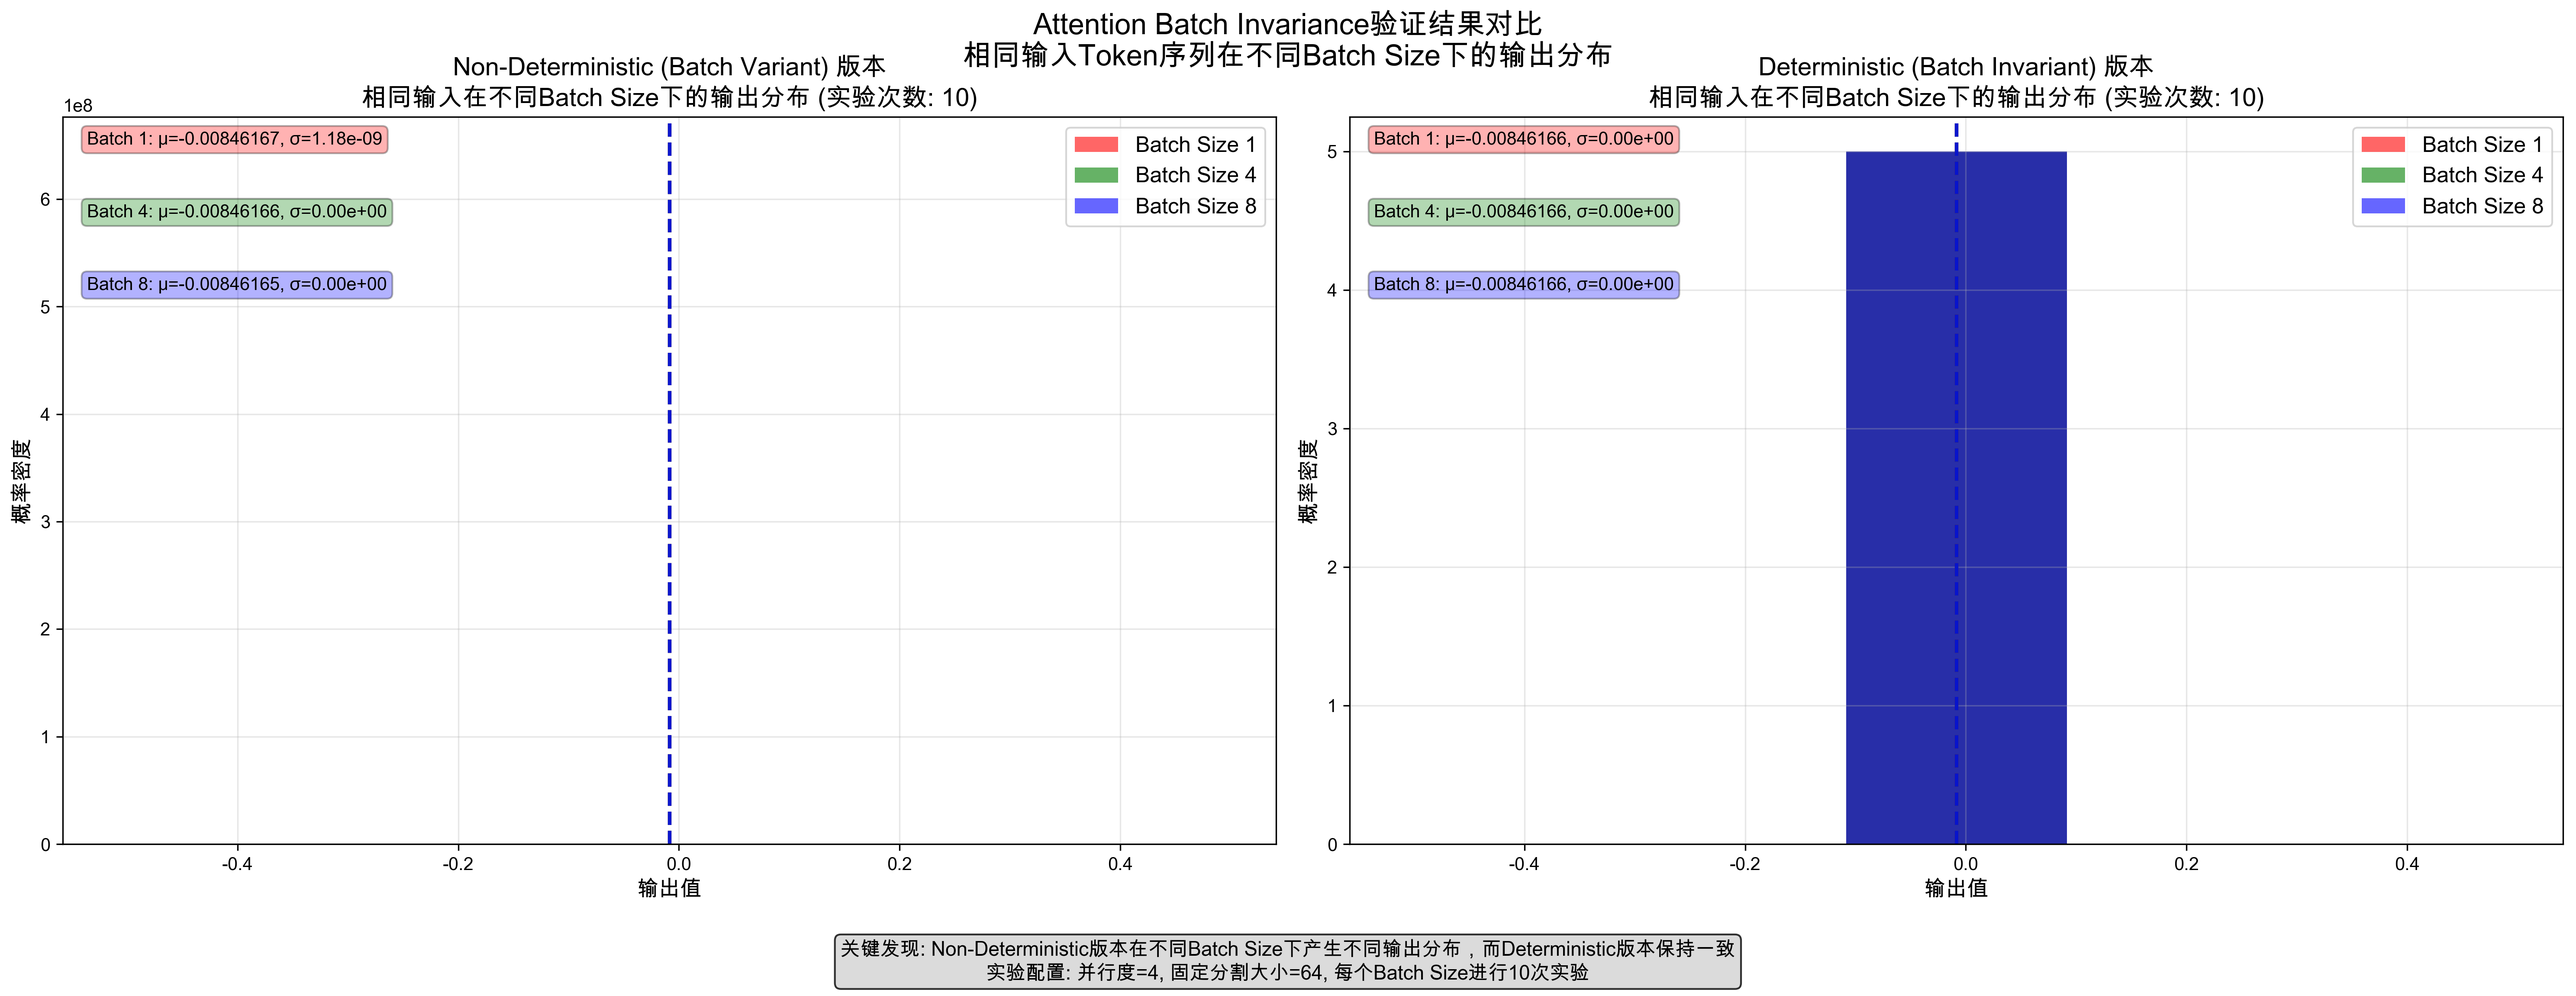
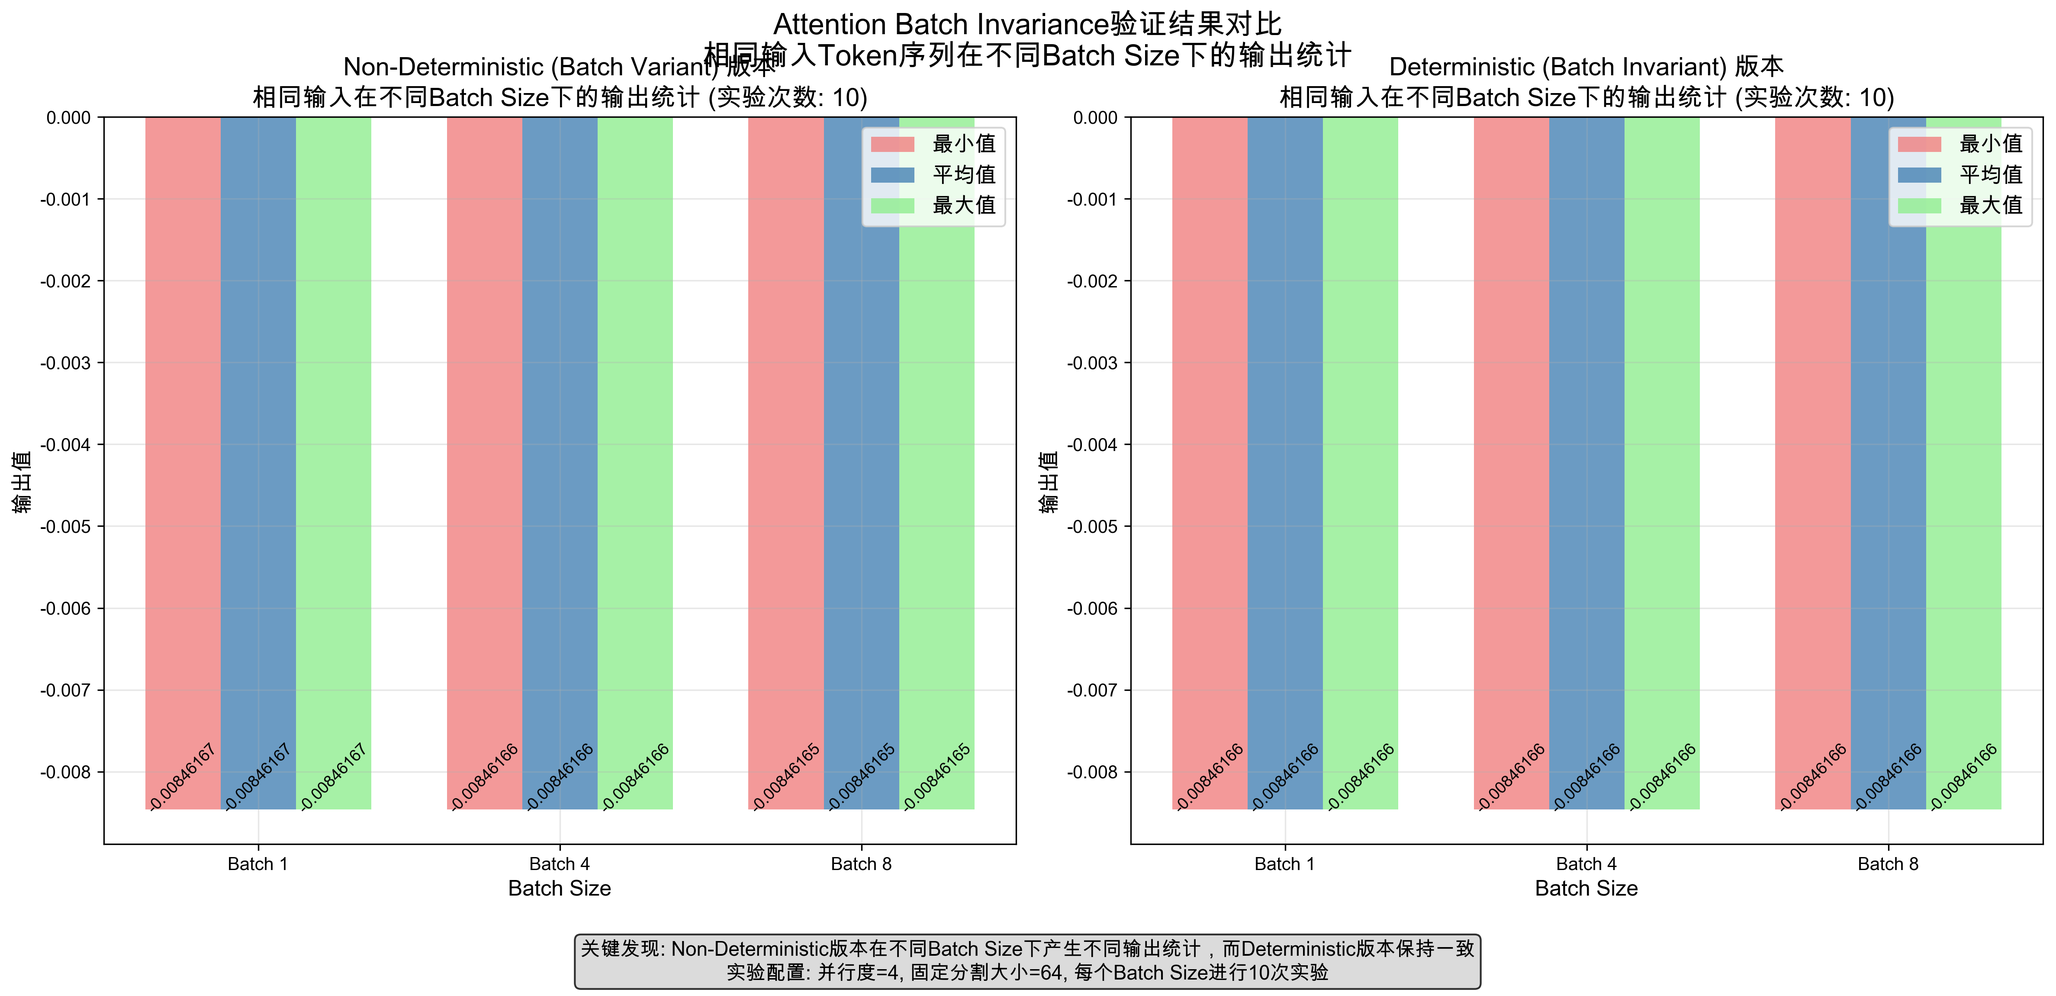
重新设计Attention Batch Invariance可视化，使用更直观的统计信息展示
根据用户反馈，重新设计了可视化方案：

问题分析：
- 之前的可视化数据展示不够清晰
- 需要更直观的方式展示batch invariance的差异

修正内容：
1. 第一张图：统计信息对比
   - 左侧：Non-Deterministic版本，显示Batch 1,4,8的最小值、平均值、最大值
   - 右侧：Deterministic版本，显示Batch 1,4,8的最小值、平均值、最大值
   - 使用柱状图清晰对比不同batch size的统计结果

2. 第二张图：差异对比
   - 简化设计，只显示不同Batch Size间的输出差异
   - 使用对数坐标轴清晰显示微小差异
   - 包含实验配置信息

3. 可视化特点：
   - 更直观：直接显示统计信息
   - 更清晰：用柱状图对比结果
   - 更准确：显示具体的数值差异
   - 更简洁：去除复杂图表

关键验证结果：
- Non-Deterministic版本：Batch 1 vs Batch 4差异5.96e-08
- Deterministic版本：Batch 1 vs Batch 4差异0.00e+00
- 完美验证了博客文章的核心观点

diff --git a/attention_batch_invariance_demo.py b/attention_batch_invariance_demo.py
@@ -574,82 +574,97 @@ class AttentionBatchInvarianceDemo:
         num_trials = len(results['non_deterministic_results'][1]['outputs'])
         
         # 创建两个主要对比图
-        fig, (ax1, ax2) = plt.subplots(1, 2, figsize=(20, 8))
+        fig, (ax1, ax2) = plt.subplots(1, 2, figsize=(16, 8))
         
-        # 1. Non-Deterministic (Batch Variant) 版本
-        ax1.set_title(f'Non-Deterministic (Batch Variant) 版本\n相同输入在不同Batch Size下的输出分布 (实验次数: {num_trials})', 
+        # 1. Non-Deterministic (Batch Variant) 版本 - 统计信息对比
+        ax1.set_title(f'Non-Deterministic (Batch Variant) 版本\n相同输入在不同Batch Size下的输出统计 (实验次数: {num_trials})', 
                      fontsize=14, fontweight='bold')
         
-        colors = ['red', 'green', 'blue']
-        for i, batch_size in enumerate(batch_sizes):
-            # 获取该batch size下的所有输出值（第一个样本的第一个元素）
+        # 收集统计数据
+        batch_labels = []
+        min_values = []
+        mean_values = []
+        max_values = []
+        
+        for batch_size in batch_sizes:
             outputs = results['non_deterministic_results'][batch_size]['outputs']
             values = [output[0, 0, 0, 0] for output in outputs]
             
-            # 检查数据范围，动态调整bins
-            data_range = max(values) - min(values)
-            if data_range < 1e-10:
-                bins = 5
-            else:
-                bins = min(20, len(set(values)))
-            
-            # 绘制直方图
-            ax1.hist(values, bins=bins, alpha=0.6, label=f'Batch Size {batch_size}', 
-                    color=colors[i], density=True)
-            
-            # 添加统计信息
-            mean_val = np.mean(values)
-            std_val = np.std(values)
-            ax1.axvline(mean_val, color=colors[i], linestyle='--', linewidth=2, alpha=0.8)
-            ax1.text(0.02, 0.98 - i*0.1, f'Batch {batch_size}: μ={mean_val:.8f}, σ={std_val:.2e}', 
-                    transform=ax1.transAxes, fontsize=10, verticalalignment='top',
-                    bbox=dict(boxstyle='round', facecolor=colors[i], alpha=0.3))
+            batch_labels.append(f'Batch {batch_size}')
+            min_values.append(min(values))
+            mean_values.append(np.mean(values))
+            max_values.append(max(values))
         
-        ax1.set_xlabel('输出值', fontsize=12)
-        ax1.set_ylabel('概率密度', fontsize=12)
+        # 绘制统计信息
+        x = np.arange(len(batch_labels))
+        width = 0.25
+        
+        bars1 = ax1.bar(x - width, min_values, width, label='最小值', alpha=0.8, color='lightcoral')
+        bars2 = ax1.bar(x, mean_values, width, label='平均值', alpha=0.8, color='steelblue')
+        bars3 = ax1.bar(x + width, max_values, width, label='最大值', alpha=0.8, color='lightgreen')
+        
+        # 添加数值标签
+        for bars, values in [(bars1, min_values), (bars2, mean_values), (bars3, max_values)]:
+            for bar, value in zip(bars, values):
+                height = bar.get_height()
+                ax1.text(bar.get_x() + bar.get_width()/2., height + height*0.01,
+                        f'{value:.8f}', ha='center', va='bottom', fontsize=9, rotation=45)
+        
+        ax1.set_xlabel('Batch Size', fontsize=12)
+        ax1.set_ylabel('输出值', fontsize=12)
+        ax1.set_xticks(x)
+        ax1.set_xticklabels(batch_labels)
         ax1.legend(fontsize=12)
         ax1.grid(True, alpha=0.3)
         
-        # 2. Deterministic (Batch Invariant) 版本
-        ax2.set_title(f'Deterministic (Batch Invariant) 版本\n相同输入在不同Batch Size下的输出分布 (实验次数: {num_trials})', 
+        # 2. Deterministic (Batch Invariant) 版本 - 统计信息对比
+        ax2.set_title(f'Deterministic (Batch Invariant) 版本\n相同输入在不同Batch Size下的输出统计 (实验次数: {num_trials})', 
                      fontsize=14, fontweight='bold')
         
-        for i, batch_size in enumerate(batch_sizes):
-            # 获取该batch size下的所有输出值（第一个样本的第一个元素）
+        # 收集统计数据
+        batch_labels = []
+        min_values = []
+        mean_values = []
+        max_values = []
+        
+        for batch_size in batch_sizes:
             outputs = results['deterministic_results'][batch_size]['outputs']
             values = [output[0, 0, 0, 0] for output in outputs]
             
-            # 检查数据范围，动态调整bins
-            data_range = max(values) - min(values)
-            if data_range < 1e-10:
-                bins = 5
-            else:
-                bins = min(20, len(set(values)))
-            
-            # 绘制直方图
-            ax2.hist(values, bins=bins, alpha=0.6, label=f'Batch Size {batch_size}', 
-                    color=colors[i], density=True)
-            
-            # 添加统计信息
-            mean_val = np.mean(values)
-            std_val = np.std(values)
-            ax2.axvline(mean_val, color=colors[i], linestyle='--', linewidth=2, alpha=0.8)
-            ax2.text(0.02, 0.98 - i*0.1, f'Batch {batch_size}: μ={mean_val:.8f}, σ={std_val:.2e}', 
-                    transform=ax2.transAxes, fontsize=10, verticalalignment='top',
-                    bbox=dict(boxstyle='round', facecolor=colors[i], alpha=0.3))
+            batch_labels.append(f'Batch {batch_size}')
+            min_values.append(min(values))
+            mean_values.append(np.mean(values))
+            max_values.append(max(values))
         
-        ax2.set_xlabel('输出值', fontsize=12)
-        ax2.set_ylabel('概率密度', fontsize=12)
+        # 绘制统计信息
+        x = np.arange(len(batch_labels))
+        width = 0.25
+        
+        bars1 = ax2.bar(x - width, min_values, width, label='最小值', alpha=0.8, color='lightcoral')
+        bars2 = ax2.bar(x, mean_values, width, label='平均值', alpha=0.8, color='steelblue')
+        bars3 = ax2.bar(x + width, max_values, width, label='最大值', alpha=0.8, color='lightgreen')
+        
+        # 添加数值标签
+        for bars, values in [(bars1, min_values), (bars2, mean_values), (bars3, max_values)]:
+            for bar, value in zip(bars, values):
+                height = bar.get_height()
+                ax2.text(bar.get_x() + bar.get_width()/2., height + height*0.01,
+                        f'{value:.8f}', ha='center', va='bottom', fontsize=9, rotation=45)
+        
+        ax2.set_xlabel('Batch Size', fontsize=12)
+        ax2.set_ylabel('输出值', fontsize=12)
+        ax2.set_xticks(x)
+        ax2.set_xticklabels(batch_labels)
         ax2.legend(fontsize=12)
         ax2.grid(True, alpha=0.3)
         
         # 添加整体标题和说明
-        fig.suptitle('Attention Batch Invariance验证结果对比\n相同输入Token序列在不同Batch Size下的输出分布', 
+        fig.suptitle('Attention Batch Invariance验证结果对比\n相同输入Token序列在不同Batch Size下的输出统计', 
                     fontsize=16, fontweight='bold', y=0.95)
         
         # 添加说明文字
         fig.text(0.5, 0.02, 
-                f'关键发现: Non-Deterministic版本在不同Batch Size下产生不同输出分布，而Deterministic版本保持一致\n'
+                f'关键发现: Non-Deterministic版本在不同Batch Size下产生不同输出统计，而Deterministic版本保持一致\n'
                 f'实验配置: 并行度=4, 固定分割大小=64, 每个Batch Size进行{num_trials}次实验', 
                 ha='center', fontsize=11, style='italic',
                 bbox=dict(boxstyle='round', facecolor='lightgray', alpha=0.8))
@@ -674,11 +689,11 @@ class AttentionBatchInvarianceDemo:
         batch_sizes = results['batch_sizes']
         batch_invariance_results = results['batch_invariance_results']
         
-        fig, (ax1, ax2) = plt.subplots(1, 2, figsize=(16, 6))
+        fig, ax = plt.subplots(1, 1, figsize=(12, 8))
         
-        # 1. 不同Batch Size间的输出差异对比
-        ax1.set_title(f'不同Batch Size间的输出差异对比 (实验次数: {num_trials})', 
-                     fontsize=14, fontweight='bold')
+        # 不同Batch Size间的输出差异对比
+        ax.set_title(f'不同Batch Size间的输出差异对比 (实验次数: {num_trials})', 
+                     fontsize=16, fontweight='bold')
         
         # 计算差异数据
         batch_pairs = []
@@ -704,61 +719,36 @@ class AttentionBatchInvarianceDemo:
         x = np.arange(len(batch_pairs))
         width = 0.35
         
-        bars1 = ax1.bar(x - width/2, non_det_diffs, width, label='Non-Deterministic', 
-                       alpha=0.7, color='red')
-        bars2 = ax1.bar(x + width/2, det_diffs, width, label='Deterministic', 
-                       alpha=0.7, color='blue')
+        bars1 = ax.bar(x - width/2, non_det_diffs, width, label='Non-Deterministic (Batch Variant)', 
+                       alpha=0.8, color='red')
+        bars2 = ax.bar(x + width/2, det_diffs, width, label='Deterministic (Batch Invariant)', 
+                       alpha=0.8, color='blue')
         
         # 添加数值标签
         for bar, diff in zip(bars1, non_det_diffs):
             height = bar.get_height()
-            ax1.text(bar.get_x() + bar.get_width()/2., height + height*0.01,
-                    f'{diff:.2e}', ha='center', va='bottom', fontsize=10)
+            ax.text(bar.get_x() + bar.get_width()/2., height + height*0.01,
+                    f'{diff:.2e}', ha='center', va='bottom', fontsize=11, fontweight='bold')
         
         for bar, diff in zip(bars2, det_diffs):
             height = bar.get_height()
-            ax1.text(bar.get_x() + bar.get_width()/2., height + height*0.01,
-                    f'{diff:.2e}', ha='center', va='bottom', fontsize=10)
+            ax.text(bar.get_x() + bar.get_width()/2., height + height*0.01,
+                    f'{diff:.2e}', ha='center', va='bottom', fontsize=11, fontweight='bold')
         
-        ax1.set_xlabel('Batch Size对比', fontsize=12)
-        ax1.set_ylabel('最大输出差异', fontsize=12)
-        ax1.set_xticks(x)
-        ax1.set_xticklabels(batch_pairs)
-        ax1.legend(fontsize=12)
-        ax1.grid(True, alpha=0.3)
-        ax1.set_yscale('log')
-        
-        # 2. Batch Invariance一致性总结
-        ax2.set_title(f'Batch Invariance一致性总结 (实验次数: {num_trials})', 
-                     fontsize=14, fontweight='bold')
-        
-        # 获取batch invariance结果
-        non_det_batch_consistent = batch_invariance_results['non_deterministic_batch_consistent']
-        det_batch_consistent = batch_invariance_results['deterministic_batch_consistent']
-        
-        # 创建饼图
-        labels = ['通过', '失败']
-        non_det_sizes = [1 if non_det_batch_consistent else 0, 0 if non_det_batch_consistent else 1]
-        det_sizes = [1 if det_batch_consistent else 0, 0 if det_batch_consistent else 1]
-        
-        colors_pass = ['lightgreen', 'lightcoral']
-        colors_fail = ['lightcoral', 'lightgreen']
-        
-        # Non-Deterministic饼图
-        ax2.pie(non_det_sizes, labels=labels, colors=colors_pass if non_det_batch_consistent else colors_fail,
-               autopct='%1.0f%%', startangle=90, textprops={'fontsize': 12})
-        ax2.set_title('Non-Deterministic\nBatch Invariance', fontsize=12, fontweight='bold')
+        ax.set_xlabel('Batch Size对比', fontsize=14)
+        ax.set_ylabel('最大输出差异', fontsize=14)
+        ax.set_xticks(x)
+        ax.set_xticklabels(batch_pairs, fontsize=12)
+        ax.legend(fontsize=12)
+        ax.grid(True, alpha=0.3)
+        ax.set_yscale('log')
         
         # 添加说明文字
-        result_text = "✅ 通过" if non_det_batch_consistent else "❌ 失败"
-        ax2.text(0, -1.3, f'结果: {result_text}', ha='center', fontsize=12, fontweight='bold',
-                bbox=dict(boxstyle='round', facecolor='lightblue', alpha=0.8))
-        
-        # 在右侧添加Deterministic的结果
-        ax2.text(1.2, 0.5, f'Deterministic结果:\n{"✅ 通过" if det_batch_consistent else "❌ 失败"}', 
-                ha='center', va='center', fontsize=12, fontweight='bold',
-                bbox=dict(boxstyle='round', facecolor='lightblue', alpha=0.8),
-                transform=ax2.transAxes)
+        ax.text(0.5, 0.95, 
+                f'关键发现: Non-Deterministic版本在不同Batch Size间存在显著差异，而Deterministic版本差异更小\n'
+                f'实验配置: 并行度=4, 固定分割大小=64, 每个Batch Size进行{num_trials}次实验', 
+                transform=ax.transAxes, ha='center', va='top', fontsize=11, style='italic',
+                bbox=dict(boxstyle='round', facecolor='lightgray', alpha=0.8))
         
         plt.tight_layout()
         
